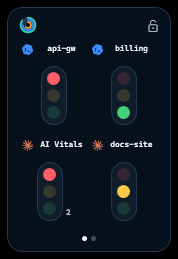
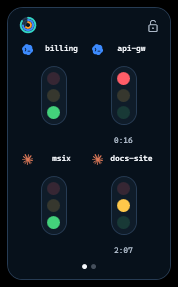
docs(pages): refresh traffic light captures with turn timers

diff --git a/assets/js/site.js b/assets/js/site.js
@@ -59,15 +59,15 @@
       'layouts.ctxnote': 'Real capture placed over an illustrated workspace, at the same scale.',
       'activity.eyebrow': 'TRAFFIC LIGHT',
       'activity.title': 'A second widget: what your agents are doing, right now.',
-      'activity.lede': 'Green is waiting, yellow is thinking, red is a tool running, grey is no signal. One light per session, so several agents at once stay legible. It is opt-in per provider, lives only in memory, and never sees a prompt or a path.',
+      'activity.lede': 'Green is waiting, yellow is thinking, red is a tool running, grey is no signal. Each light counts how long its turn has been going. One light per session, so several agents at once stay legible. It is opt-in per provider, lives only in memory, and never sees a prompt or a path.',
       'activity.tablist': 'Concurrent sessions',
       'activity.tab.single': 'One session',
       'activity.tab.grid': 'Three',
       'activity.tab.carousel': 'Five or more',
-      'activity.alt.single': 'Traffic light with a single red light labelled AI Vitals',
+      'activity.alt.single': 'Traffic light with a single red light labelled AI Vitals, counting the running turn',
       'activity.alt.grid': 'Traffic light with three lights: two on the first row and one centred below',
       'activity.alt.carousel': 'Traffic light with four lights in a two by two grid and page dots underneath',
-      'activity.note.single': 'One session: a single narrow light, as wide as the vertical quota widget.',
+      'activity.note.single': 'One session: a single narrow light, as wide as the vertical quota widget. The time under it is the turn now running.',
       'activity.note.grid': 'Three sessions: two on top, the odd one centred below. The number beside a light counts tools running in parallel.',
       'activity.note.carousel': 'Past four sessions the widget pages instead of growing: two by two, a new page every five seconds, held while the pointer rests on it.',
 
@@ -196,15 +196,15 @@
       'layouts.ctxnote': 'Captura real colocada sobre un escritorio ilustrado, a la misma escala.',
       'activity.eyebrow': 'SEMÁFORO',
       'activity.title': 'Un segundo widget: qué están haciendo tus agentes ahora mismo.',
-      'activity.lede': 'Verde es en espera, amarillo procesando, rojo una herramienta en marcha y gris sin señal. Un semáforo por sesión, para que varios agentes a la vez se sigan leyendo. Se activa por proveedor, vive solo en memoria y nunca ve un prompt ni una ruta.',
+      'activity.lede': 'Verde es en espera, amarillo procesando, rojo una herramienta en marcha y gris sin señal. Cada semáforo cronometra lo que lleva su turno. Un semáforo por sesión, para que varios agentes a la vez se sigan leyendo. Se activa por proveedor, vive solo en memoria y nunca ve un prompt ni una ruta.',
       'activity.tablist': 'Sesiones simultáneas',
       'activity.tab.single': 'Una sesión',
       'activity.tab.grid': 'Tres',
       'activity.tab.carousel': 'Cinco o más',
-      'activity.alt.single': 'Semáforo con una sola luz roja etiquetada AI Vitals',
+      'activity.alt.single': 'Semáforo con una sola luz roja etiquetada AI Vitals, cronometrando el turno en curso',
       'activity.alt.grid': 'Semáforo con tres luces: dos en la primera fila y una centrada debajo',
       'activity.alt.carousel': 'Semáforo con cuatro luces en dos por dos y puntos de página debajo',
-      'activity.note.single': 'Una sesión: una sola luz estrecha, del ancho del widget de cuotas vertical.',
+      'activity.note.single': 'Una sesión: una sola luz estrecha, del ancho del widget de cuotas vertical. El tiempo de debajo es el turno en curso.',
       'activity.note.grid': 'Tres sesiones: dos arriba y la impar centrada debajo. El número junto a una luz cuenta las herramientas en paralelo.',
       'activity.note.carousel': 'A partir de cuatro sesiones el widget pagina en vez de crecer: dos por dos, una página cada cinco segundos, y se detiene mientras el puntero está encima.',
 
@@ -487,9 +487,9 @@
 
   /* ── activity traffic light switcher ────────────────────────────── */
   var ACTIVITY = {
-    single: { shot: 'panel-single', dims: '108 × 147 px' },
-    grid: { shot: 'panel-grid', dims: '178 × 243 px' },
-    carousel: { shot: 'panel-carousel', dims: '178 × 259 px' }
+    single: { shot: 'panel-single', dims: '108 × 161 px' },
+    grid: { shot: 'panel-grid', dims: '178 × 271 px' },
+    carousel: { shot: 'panel-carousel', dims: '178 × 287 px' }
   };
 
   var activityCurrent = 'single';

diff --git a/index.html b/index.html
@@ -282,7 +282,7 @@
       <header class="section__head">
         <p class="eyebrow mono" data-i18n="activity.eyebrow">TRAFFIC LIGHT</p>
         <h2 class="section__title" data-i18n="activity.title">A second widget: what your agents are doing, right now.</h2>
-        <p class="section__lede" data-i18n="activity.lede">Green is waiting, yellow is thinking, red is a tool running, grey is no signal. One light per session, so several agents at once stay legible. It is opt-in per provider, lives only in memory, and never sees a prompt or a path.</p>
+        <p class="section__lede" data-i18n="activity.lede">Green is waiting, yellow is thinking, red is a tool running, grey is no signal. Each light counts how long its turn has been going. One light per session, so several agents at once stay legible. It is opt-in per provider, lives only in memory, and never sees a prompt or a path.</p>
       </header>
 
       <div class="switcher" role="tablist" data-i18n-label="activity.tablist" aria-label="Sessions">
@@ -302,18 +302,18 @@
 
       <div class="stage">
         <div class="stage__bar">
-          <span class="mono stage__dims" id="activityDims">108 × 147 px</span>
+          <span class="mono stage__dims" id="activityDims">108 × 161 px</span>
         </div>
 
         <div class="stage__view" id="activityView">
           <figure class="shot shot--widget" role="tabpanel" id="panel-single" aria-labelledby="tab-single">
-            <img src="assets/img/activity-single.png" width="108" height="147" data-i18n-alt="activity.alt.single" alt="Traffic light with a single red light labelled AI Vitals" />
+            <img src="assets/img/activity-single.png" width="108" height="161" data-i18n-alt="activity.alt.single" alt="Traffic light with a single red light labelled AI Vitals, counting the running turn" />
           </figure>
           <figure class="shot shot--widget is-hidden" role="tabpanel" id="panel-grid" aria-labelledby="tab-grid" hidden>
-            <img src="assets/img/activity-grid.png" width="178" height="243" data-i18n-alt="activity.alt.grid" alt="Traffic light with three lights: two on the first row and one centred below" />
+            <img src="assets/img/activity-grid.png" width="178" height="271" data-i18n-alt="activity.alt.grid" alt="Traffic light with three lights: two on the first row and one centred below" />
           </figure>
           <figure class="shot shot--widget is-hidden" role="tabpanel" id="panel-carousel" aria-labelledby="tab-carousel" hidden>
-            <img src="assets/img/activity-carousel.png" width="178" height="259" data-i18n-alt="activity.alt.carousel" alt="Traffic light with four lights in a two by two grid and page dots underneath" />
+            <img src="assets/img/activity-carousel.png" width="178" height="287" data-i18n-alt="activity.alt.carousel" alt="Traffic light with four lights in a two by two grid and page dots underneath" />
           </figure>
         </div>
 
